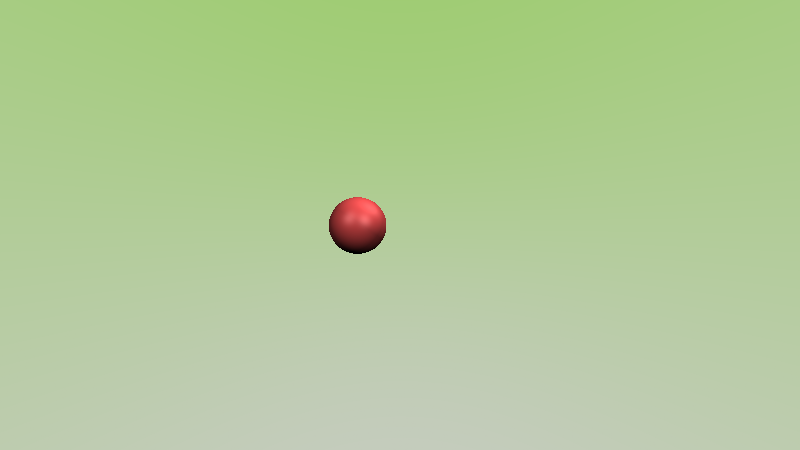
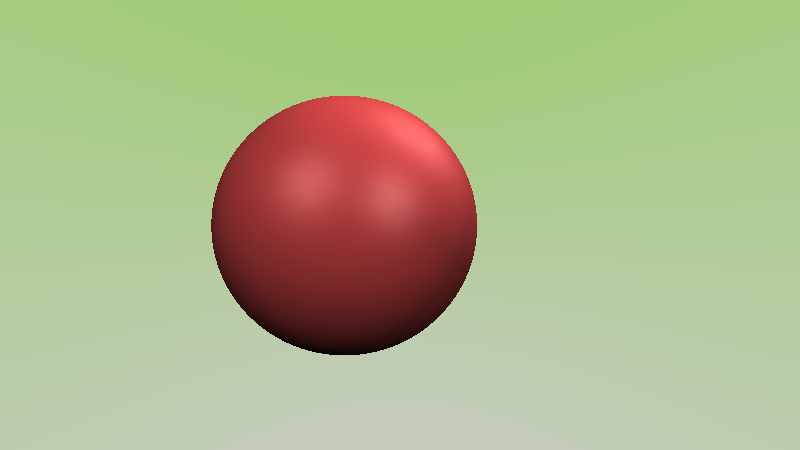
doc: update readme

Changed region(s): [[0.25, 0.1867, 0.5938, 0.8089]]

diff --git a/examples/single_ball.rs b/examples/single_ball.rs
@@ -17,7 +17,7 @@ fn example_scene() -> Scene<DummyBackground> {
     let l2 = Light::new(Position::new(30., 50., -25.), 1.8);
     let l3 = Light::new(Position::new(30., 20., 30.), 1.7);
 
-    let sp1 = Sphere::new(Position::new(-3., 0., -16.), 2., red_rubber.clone());
+    let sp1 = Sphere::new(Position::new(-3., 0., -16.), 8., red_rubber.clone());
     Scene::default()
         .add_background(DummyBackground)
         .add_object(sp1)

diff --git a/README.md b/README.md
@@ -22,6 +22,10 @@ This is rust implementation of [tinyrenderer](https://github.com/ssloy/tinyrende
 | :--------------------------------------: | :------------------------------------------------: |
 | ![img](./output/example_single_ball.png) | ![img](./output/example_single_ball_antialias.png) |
 
+|               zoom in                |
+| :----------------------------------: |
+| ![img](./output/example_zoom_in.png) |
+
 ### Monte Carlo Path Tracing
 
 |                      result                      |
